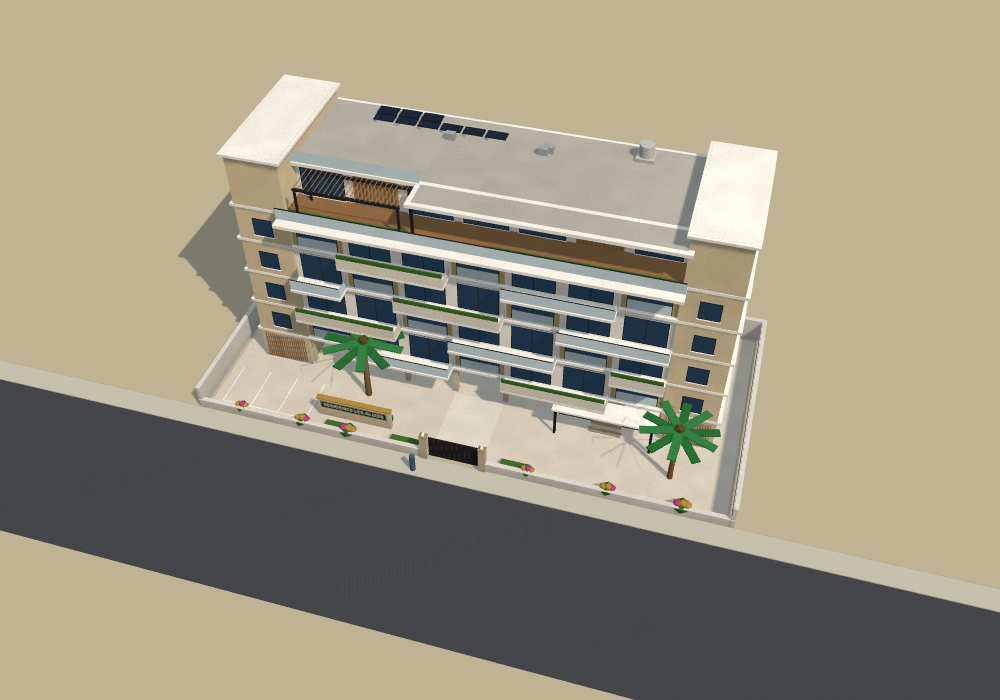
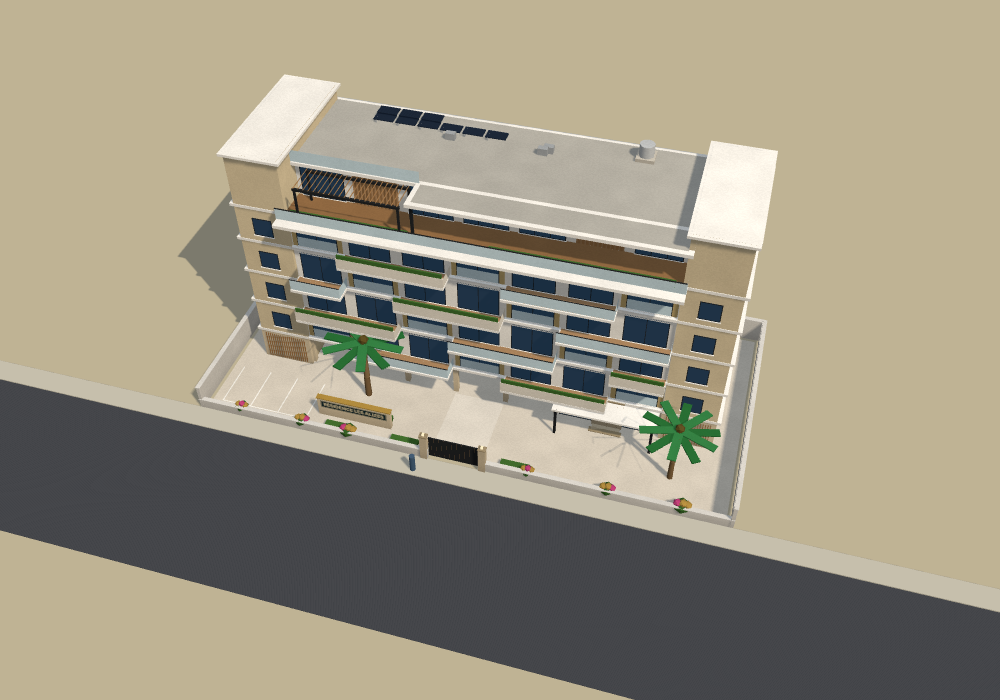
LD2.0-E lane E-R: oak decks on the balconies, the house numbers read right on a mirrored site, the pictures again
Claude-Session: https://claude.ai/code/session_01KfuK7yGLYyaNjurRCF8cfb

diff --git a/src/world/almadies/residences.kit.ts b/src/world/almadies/residences.kit.ts
@@ -96,6 +96,11 @@ export class Facade {
     const a = this.at + this.s * n0, b = this.at + this.s * n1;
     m.vq(this.ax === 'x' ? 'x' : 'z', u, Math.min(a, b), Math.max(a, b), y0, y1, dir, col);
   }
+  /** A horizontal quad (a deck, a roof's finish) at height y between n0 and n1 out of the face, from u0 to u1 along it, facing up. */
+  hq(u0: number, u1: number, n0: number, n1: number, y: number, col: number, m: Mesh = this.k.plain) {
+    const a = this.at + this.s * n0, b = this.at + this.s * n1, lo = Math.min(a, b), hi = Math.max(a, b);
+    if (this.ax === 'x') m.hq(u0, lo, u1, hi, y, true, col); else m.hq(lo, u0, hi, u1, y, true, col);
+  }
   /** A box from n0 to n1 out of the face; `skip`: i (the inner face), e (the two ends), t (top), u (under), or a plan letter. Default: not its inner face nor its underside. */
   box(u0: number, u1: number, y0: number, y1: number, n0: number, n1: number, col: number, skip = 'iu', m: Mesh = this.k.plain) {
     const a = this.at + this.s * n0, b = this.at + this.s * n1, lo = Math.min(a, b), hi = Math.max(a, b);
@@ -121,12 +126,13 @@ export class Facade {
   }
   /** The house number: gilt seven-segment digits (2 triangles a segment) on a dark plaque, `u` its centre along the face, `y` its foot, `n` out of the face. */
   houseNumber(text: string, u: number, y: number, n: number, o: { h?: number; col?: number; plate?: number } = {}) {
-    const { k } = this, h = o.h ?? 0.26, w = h * 0.52, t = h * 0.13, gap = h * 0.4, col = o.col ?? mix(k.p.accent, 0xffffff, 0.2), pitch = w + gap, len = text.length * pitch - gap, u0 = u - len / 2;
+    const { k } = this, h = o.h ?? 0.26, w = h * 0.52, t = h * 0.13, gap = h * 0.4, col = o.col ?? mix(k.p.accent, 0xffe9a8, 0.55), pitch = w + gap, len = text.length * pitch - gap, u0 = u - len / 2;
+    const flip = k.d.f.mirror && this.ax === 'x';                                                         // a mirrored site mirrors its plan: draw the digits reversed so they read right
     this.quad(u0 - 0.1, u0 + len + 0.1, y - 0.1, y + h + 0.1, n, o.plate ?? 0x1c1a18);
     [...text].forEach((ch, i) => {
       const a = u0 + i * pitch, seg = DIGITS[ch] ?? '';
       const S: Record<string, [number, number, number, number]> = { a: [a, a + w, y + h - t, y + h], b: [a + w - t, a + w, y + h / 2, y + h], c: [a + w - t, a + w, y, y + h / 2], d: [a, a + w, y, y + t], e: [a, a + t, y, y + h / 2], f: [a, a + t, y + h / 2, y + h], g: [a, a + w, y + h / 2 - t / 2, y + h / 2 + t / 2] };
-      for (const c of seg) { const [x0, x1, y0, y1] = S[c]; this.quad(x0, x1, y0, y1, n + 0.01, col); }
+      for (const c of seg) { const [x0, x1, y0, y1] = S[c]; if (flip) this.quad(2 * u - x1, 2 * u - x0, y0, y1, n + 0.01, col); else this.quad(x0, x1, y0, y1, n + 0.01, col); }
     });
   }
   /**
@@ -149,6 +155,7 @@ export class Facade {
   balcony(o: { u0: number; u1: number; y: number; depth?: number; guard?: 'glass' | 'solid' | 'bars' | 'none'; col?: number; guardCol?: number; green?: boolean; thick?: number; returns?: [boolean, boolean]; n0?: number }) {
     const { k } = this, dep = o.depth ?? 1.7, th = o.thick ?? 0.24, col = o.col ?? k.p.slab, n0 = o.n0 ?? 0, H = 1.05, gu = o.guard ?? 'glass', [ra, rb] = o.returns ?? [true, true];
     this.box(o.u0, o.u1, o.y - th, o.y, n0, n0 + dep, col, 'i');   // all of it but the inner face (the underside is seen from the street)
+    if (!k.lite) this.hq(o.u0 + 0.08, o.u1 - 0.08, n0 + 0.06, n0 + dep - 0.1, o.y + 0.012, mix(k.p.wood, 0xffffff, 0.12));                    // its oak deck
     if (gu === 'none') return;
     const no = n0 + dep - 0.06;
     if (gu === 'glass') {
